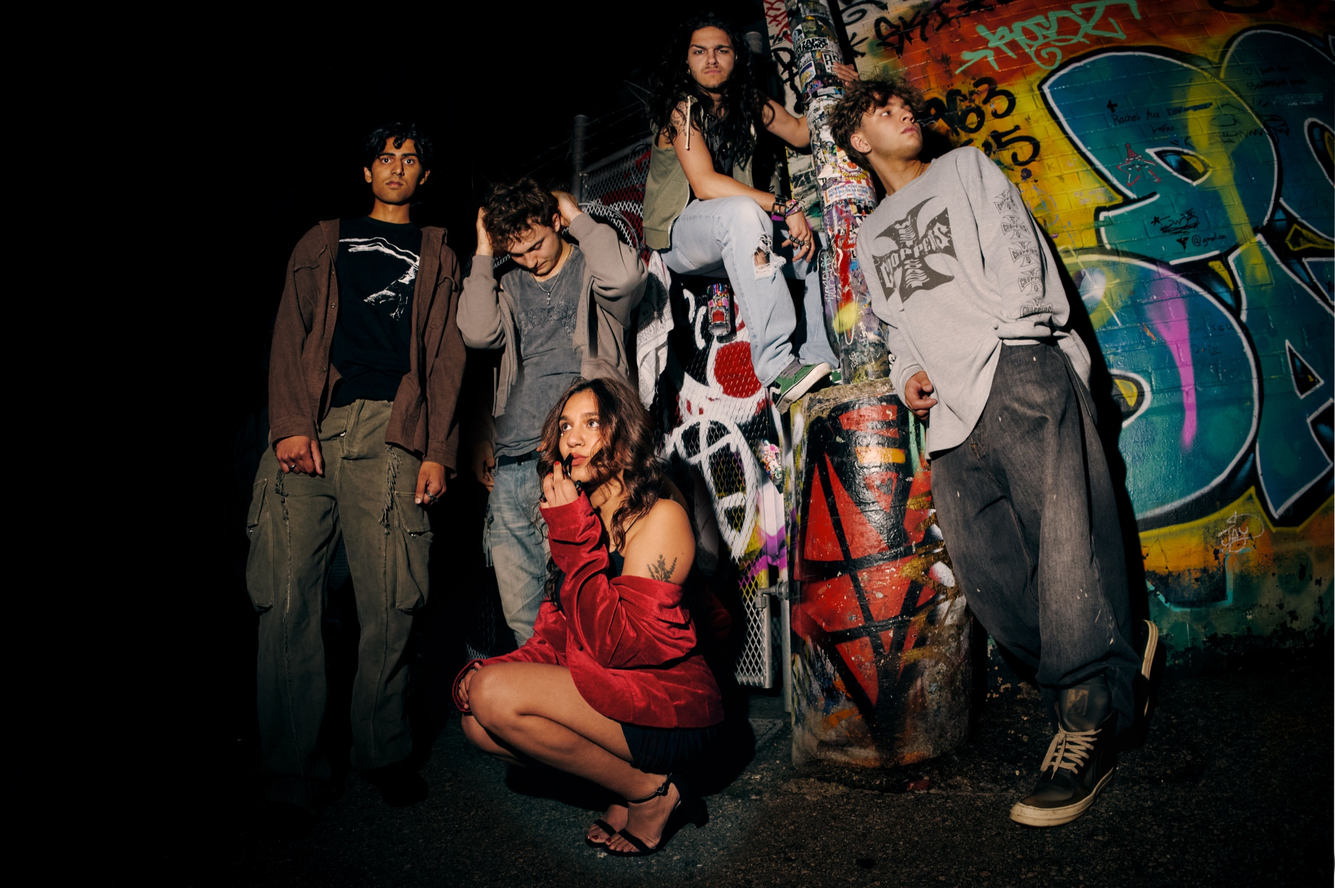
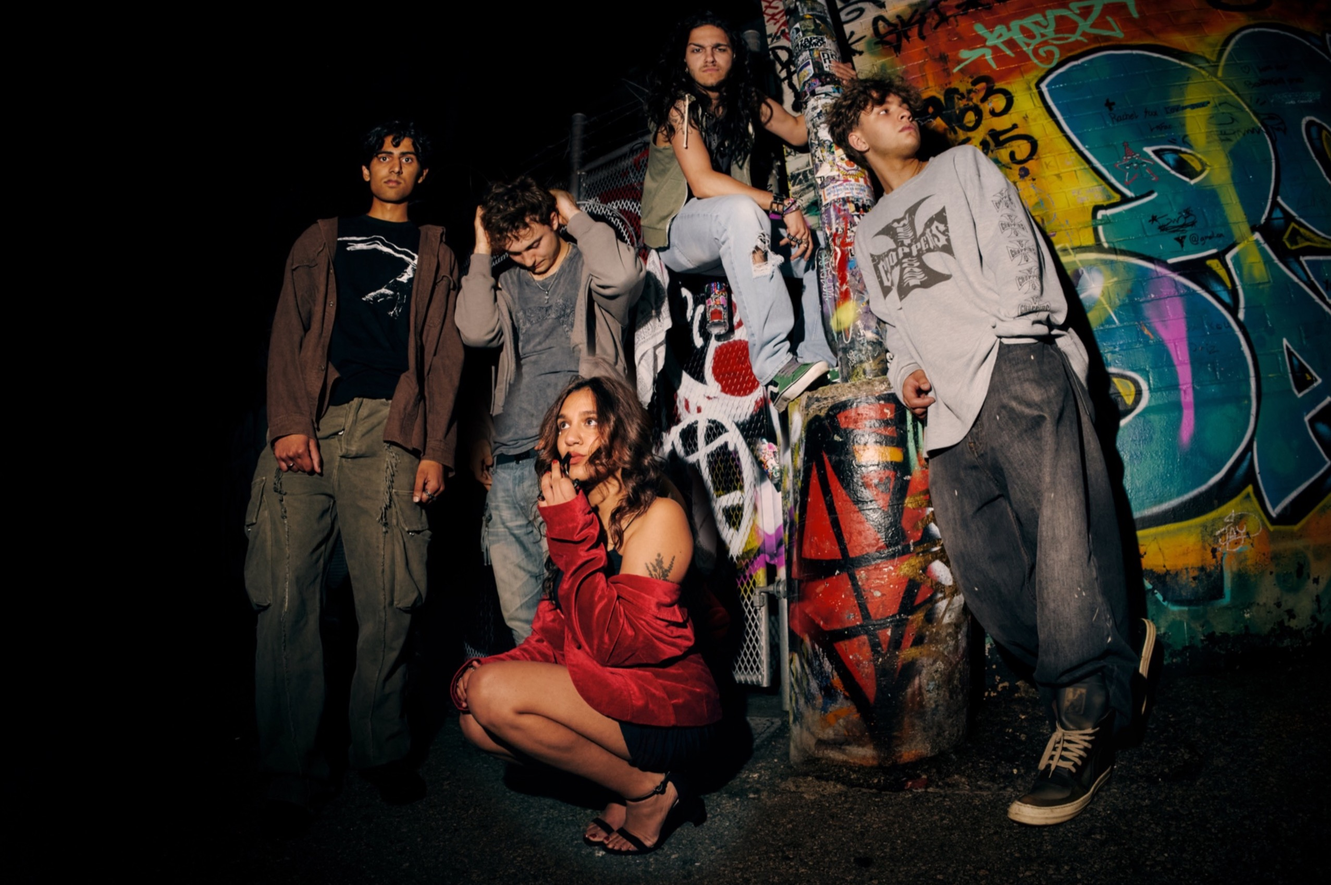
fixed mobile again

diff --git a/src/App.css b/src/App.css
@@ -71,24 +71,6 @@ main p {
   );
 }
 
-/* Portrait phones: show the whole photo (no crop) so all five stay in frame.
-   Hero still fills the first screen; logo moves up so the band stays clear. */
-@media (max-width: 700px) and (orientation: portrait) {
-  .hero-landing__bg {
-    object-fit: contain;
-    object-position: center 68%;
-  }
-
-  .hero-landing__scrim {
-    display: none;
-  }
-
-  .hero-landing__content {
-    justify-content: flex-start;
-    padding-top: clamp(3rem, 14vw, 5rem);
-  }
-}
-
 .hero-landing__content {
   position: relative;
   z-index: 1;
@@ -266,38 +248,39 @@ main > .section + .section::before {
 
 .button-link {
   display: inline-block;
-  border: 1px solid var(--accent-border);
-  padding: 0.35rem 0.85rem;
-  border-radius: 999px;
-  background: var(--accent-bg);
+  border: 1px solid var(--border);
+  padding: 0.4rem 0.95rem;
+  border-radius: 2px;
+  background: transparent;
   font-family: var(--font-display);
-  font-size: var(--body-size);
-  line-height: var(--body-leading);
-  letter-spacing: var(--body-tracking);
-  color: var(--accent);
-  font-weight: 500;
+  font-size: 0.8rem;
+  line-height: 1.4;
+  letter-spacing: var(--display-tracking);
+  text-transform: uppercase;
+  color: var(--text-h);
+  font-weight: 600;
   text-decoration: none;
   cursor: pointer;
   transition:
-    background 200ms ease,
     border-color 200ms ease,
-    color 200ms ease;
+    color 200ms ease,
+    background 200ms ease;
 }
 
 .button-link:hover {
   text-decoration: none;
-  background: rgba(232, 184, 74, 0.2);
-  border-color: var(--accent);
+  border-color: var(--text-h);
+  background: transparent;
   color: var(--text-h);
 }
 
 button.button-link:disabled {
-  opacity: 0.65;
+  opacity: 0.55;
   cursor: not-allowed;
 }
 
 button.button-link:disabled:hover {
-  text-decoration: none;
+  border-color: var(--border);
 }
 
 .signup-description {
@@ -318,7 +301,7 @@ button.button-link:disabled:hover {
   flex: 1 1 240px;
   min-width: 0;
   border: 1px solid var(--border);
-  border-radius: 999px;
+  border-radius: 2px;
   padding: 0.55rem 0.9rem;
   background: var(--surface);
   font-family: var(--font-body);
@@ -334,8 +317,8 @@ button.button-link:disabled:hover {
 
 .signup-form input:focus {
   outline: none;
-  border-color: var(--accent-border);
-  box-shadow: 0 0 0 3px var(--accent-bg);
+  border-color: var(--text-h);
+  box-shadow: none;
 }
 
 .signup-message {
@@ -410,7 +393,7 @@ button.button-link:disabled:hover {
   max-width: 100%;
   height: 2.75rem;
   color-scheme: dark;
-  border-radius: 999px;
+  border-radius: 2px;
 }
 
 .music-preview__link {

diff --git a/index.html b/index.html
@@ -12,7 +12,7 @@
     <link rel="preconnect" href="https://fonts.googleapis.com" />
     <link rel="preconnect" href="https://fonts.gstatic.com" crossorigin />
     <link
-      href="https://fonts.googleapis.com/css2?family=Outfit:wght@500;600;700&family=Source+Serif+4:opsz,wght@8..60,400;500;600&display=swap"
+      href="https://fonts.googleapis.com/css2?family=Outfit:wght@400;500;600;700&display=swap"
       rel="stylesheet"
     />
     <link rel="preload" as="image" href="/images/the-photo.jpg" />

diff --git a/src/index.css b/src/index.css
@@ -12,10 +12,10 @@
   --surface: #12141a;
 
   --font-display: 'Outfit', system-ui, sans-serif;
-  --font-body: 'Source Serif 4', Georgia, 'Times New Roman', serif;
+  --font-body: 'Outfit', system-ui, sans-serif;
   --body-size: 16px;
   --body-leading: 1.7;
-  --body-tracking: 0.01em;
+  --body-tracking: 0;
   --display-tracking: 0.06em;
   --section-gap: clamp(2rem, 5vw, 2.75rem);
   --section-inner-gap: 1rem;
